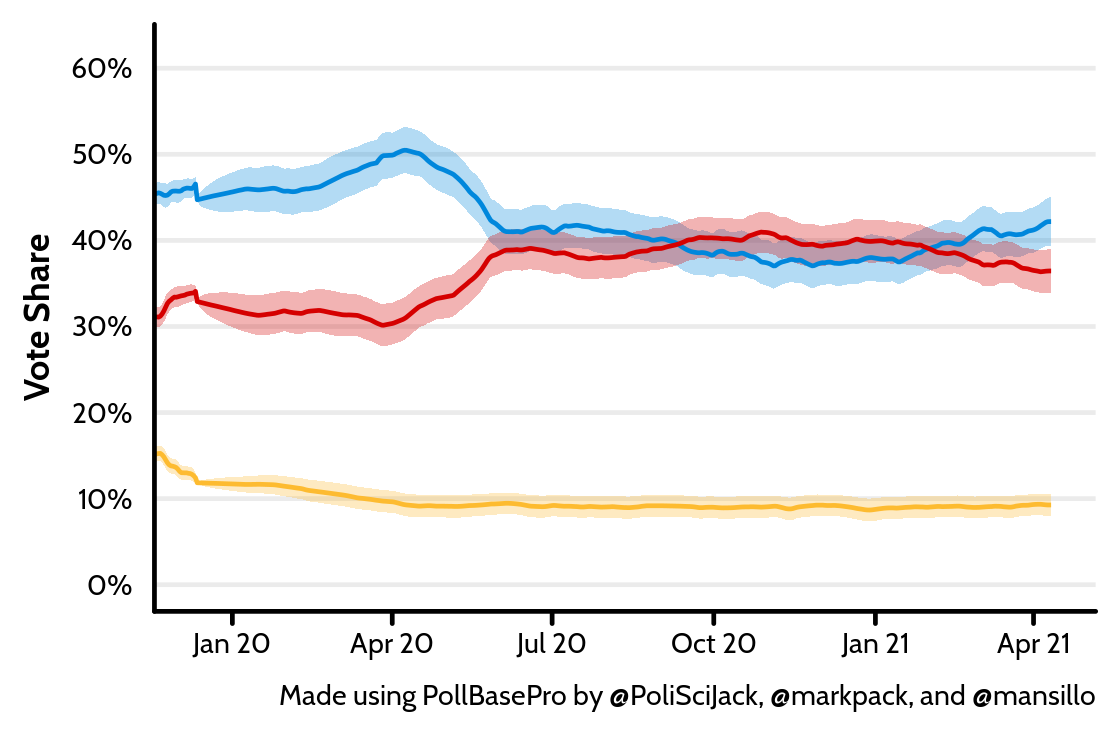
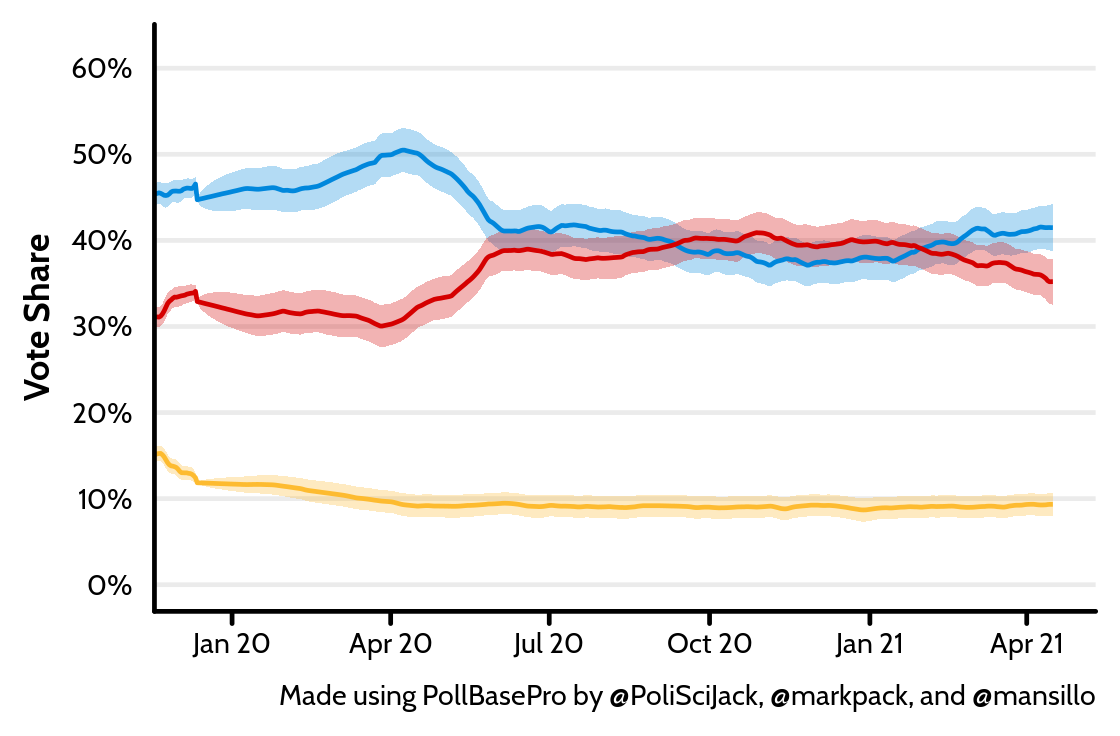
Updated readme

diff --git a/README.md b/README.md
@@ -10,8 +10,8 @@ simple. It contains two pre-formatted datasets, plus a host of useful
 functions. The first dataset, `pollbase`, is a long-format version of
 Mark Pack’s dataset of historic British public opinion polls combined
 with more recent data from Wikipedia. The second, `pollbasepro`,
-provides 24,063 daily estimates of voting intention figures for each of
-Britain’s three largest parties from 26 May 1955 to 11 April 2021.
+provides 24,068 daily estimates of voting intention figures for each of
+Britain’s three largest parties from 26 May 1955 to 16 April 2021.
 
 To install the latest version of `{britpol}`, run the following code in
 `R`:
@@ -24,10 +24,10 @@ devtools::install_github("jackobailey/britpol")
 
 <img src="https://raw.githubusercontent.com/jackobailey/britpol/master/documentation/_assets/timeplot_gh.png" alt="Recent polling figures" align="right" width="400" style="padding: 0 15px; float: right;"/>
 
-**British Poll of Polls, 11 April 2021:**
+**British Poll of Polls, 16 April 2021:**
 
--   **Conservative Party:** 42% (39% to 45%)
--   **Labour Party:** 36% (34% to 39%)
+-   **Conservative Party:** 41% (39% to 44%)
+-   **Labour Party:** 35% (33% to 38%)
 -   **Liberal Democrats:** 9% (8% to 11%)
 
 `pollbasepro` suggests that the Conservative Party is the largest party
